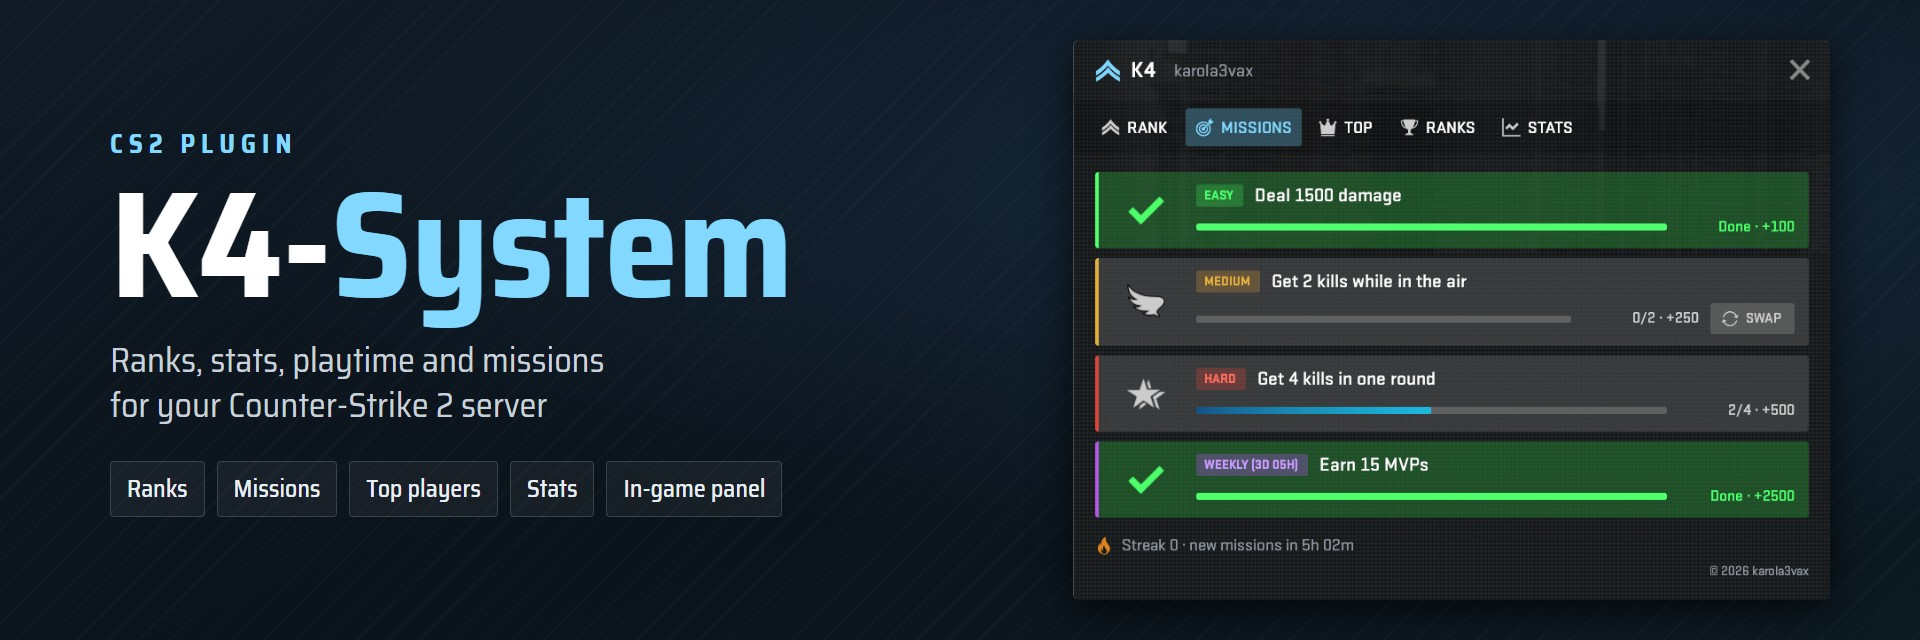
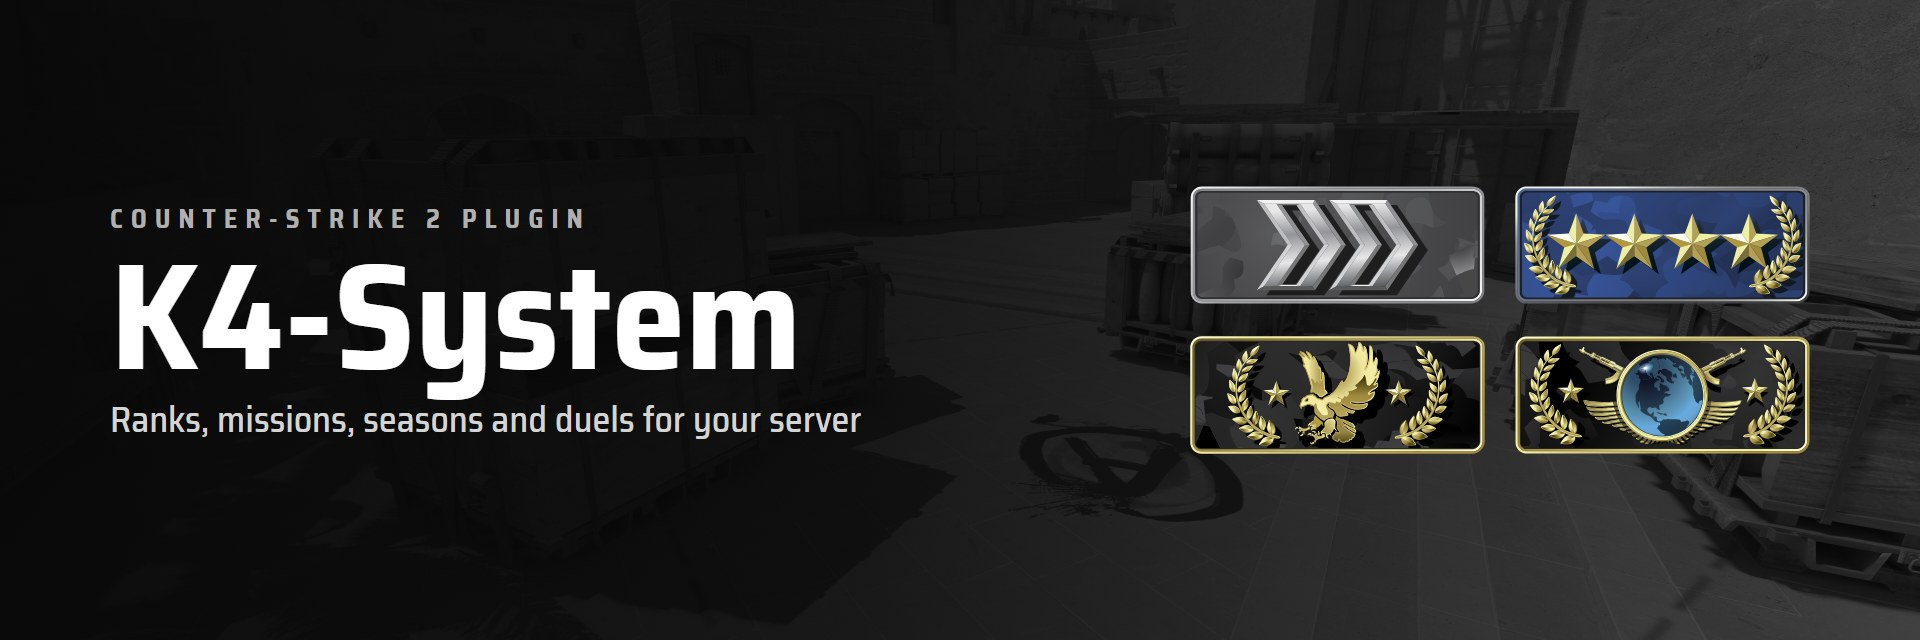
README: rewrite as a short page for server owners
- Black and grey banner and badges, matching the panel theme.
- New panel images replace the screenshots of the pre-7.1 tabs. They are
  browser previews with sample data, and the page says so.
- Feature detail stays in docs/; the old rank icon table and its external
  images are gone.

diff --git a/README.md b/README.md
@@ -1,10 +1,10 @@
 <p align="center">
-  <img src="docs/images/banner.jpg" alt="K4-System: ranks, stats, playtime and missions for your Counter-Strike 2 server">
+  <img src="docs/images/banner.jpg" alt="K4-System: ranks, missions, seasons and duels for your Counter-Strike 2 server">
 </p>
 
 <p align="center">
-  <a href="https://github.com/karola3vax/K4-System/releases/latest"><img src="https://img.shields.io/github/v/release/karola3vax/K4-System?style=for-the-badge&color=1f75cb" alt="Latest release"></a>
-  <a href="LICENSE.md"><img src="https://img.shields.io/badge/license-GPL--3.0-1f75cb?style=for-the-badge" alt="GPL-3.0 license"></a>
+  <a href="https://github.com/karola3vax/K4-System/releases/latest"><img src="https://img.shields.io/github/v/release/karola3vax/K4-System?style=for-the-badge&color=333333" alt="Latest release"></a>
+  <a href="LICENSE.md"><img src="https://img.shields.io/badge/license-GPL--3.0-333333?style=for-the-badge" alt="GPL-3.0 license"></a>
 </p>
 
 <p align="center">
@@ -17,56 +17,43 @@
   <a href="https://discord.com/invite/gaAUsKAuqQ"><strong>Discord</strong></a>
 </p>
 
-K4-System gives your Counter-Strike 2 server a rank ladder that players climb with points. Kills, objectives and round wins earn points, players see their rank on the scoreboard, and daily and weekly missions give them something new to play for every day. It runs on [CounterStrikeSharp](https://github.com/roflmuffin/CounterStrikeSharp) and works with SQLite out of the box or MySQL for several servers.
+K4-System adds a rank ladder to your Counter-Strike 2 server. Players earn points for kills, objectives and round wins, see their rank on the scoreboard, and get new missions every day. It runs on [CounterStrikeSharp](https://github.com/roflmuffin/CounterStrikeSharp) and uses SQLite with no setup, or MySQL for several servers.
 
-<table align="center">
-  <tr>
-    <td align="center"><img src="https://raw.githubusercontent.com/ItzArty/csgo-rank-icons/29cde4ddd2758458f1c67653ad32e0198b5484f9/matchmaking/1.svg" width="72" alt="Silver I"></td>
-    <td align="center"><img src="https://raw.githubusercontent.com/ItzArty/csgo-rank-icons/29cde4ddd2758458f1c67653ad32e0198b5484f9/matchmaking/4.svg" width="72" alt="Silver IV"></td>
-    <td align="center"><img src="https://raw.githubusercontent.com/ItzArty/csgo-rank-icons/29cde4ddd2758458f1c67653ad32e0198b5484f9/matchmaking/7.svg" width="72" alt="Gold Nova I"></td>
-    <td align="center"><img src="https://raw.githubusercontent.com/ItzArty/csgo-rank-icons/29cde4ddd2758458f1c67653ad32e0198b5484f9/matchmaking/10.svg" width="72" alt="Gold Nova Master"></td>
-    <td align="center"><img src="https://raw.githubusercontent.com/ItzArty/csgo-rank-icons/29cde4ddd2758458f1c67653ad32e0198b5484f9/matchmaking/13.svg" width="72" alt="Master Guardian Elite"></td>
-    <td align="center"><img src="https://raw.githubusercontent.com/ItzArty/csgo-rank-icons/29cde4ddd2758458f1c67653ad32e0198b5484f9/matchmaking/16.svg" width="72" alt="Legendary Eagle Master"></td>
-    <td align="center"><img src="https://raw.githubusercontent.com/ItzArty/csgo-rank-icons/29cde4ddd2758458f1c67653ad32e0198b5484f9/matchmaking/18.svg" width="72" alt="Global Elite"></td>
-  </tr>
-</table>
-<p align="center"><sub>The default ladder follows CS2's matchmaking ranks. Every rank, point threshold, tag and reward can be changed.</sub></p>
+<p align="center">
+  <img src="docs/images/panel-home.png" alt="The K4 panel's Home page: rank, points, missions, achievements and the top players">
+</p>
+<p align="center"><sub>The optional in-game panel. Images on this page are browser previews with sample data, not in-game captures.</sub></p>
 
 ## What players get
 
-- **A rank that grows with them.** Points for kills, headshots, objectives and round wins, shown as a CS2 rank icon on the scoreboard.
-- **Missions every day.** Three daily missions and one weekly mission that fit the current map, with a streak bonus for playing several days in a row.
-- **Achievements to chase.** 21 long-term goals, from 100 kills to a 30-day mission streak, each with a one-time reward. Progress counts from a player's first game.
-- **Monthly seasons.** Points start over on the 1st of each month, so new players can reach the top. Final results are kept, and the Top tab shows every past season.
-- **Profiles.** Rank, key stats, favorite weapon, three achievements to show off and past seasons. Click any name in the Top tab to see theirs.
-- **Points events.** Double points on weekend evenings, or whenever an admin starts one.
-- **Bounties and duels.** A long kill streak makes a player WANTED, with bonus points for whoever ends it. Players can challenge each other to a duel for points with `!duel` or on the panel's Duels page: a kill race with a rule (any kill, no-scope, Zeus, knife, Scout or headshot), first to 5 kills or the leader after 10 minutes.
-- **A clickable panel** in CS2's own style for their rank, missions, the top players, duels, all ranks and their stats (optional, through a free Workshop addon).
-- **Their own stats and playtime**, and the server's top list.
-- **Their language.** K4-System speaks 36 languages, and each player can pick their own.
+- **Ranks.** The default ladder follows CS2's matchmaking ranks, and the rank shows as a CS2 icon on the scoreboard.
+- **Missions.** Three daily missions and one weekly mission that fit the current map, with a bonus for a streak of days.
+- **Achievements.** 21 long-term goals with one-time rewards.
+- **Seasons.** Points start over on the 1st of each month. Final results are kept.
+- **Duels.** A kill race for points with a rule: any kill, no-scope, Zeus, knife, Scout or headshot.
+- **Bounties and points events.** A long kill streak puts a bounty on a player, and events give double points on weekend evenings or when an admin starts one.
+- **A clickable panel** for all of this, plus profiles, stats and the leaderboard. It's optional and uses a free Workshop addon.
+- **Their language.** 36 languages, and each player can pick their own.
 
 ## What server owners get
 
-- **Works right away.** Drop it in, start the server, and it runs on SQLite. Switch to MySQL when you run several servers or a web panel.
-- **Everything is adjustable** in one commented config file: point values (with ready presets for casual, competitive and deathmatch), the rank ladder, missions, messages and command names.
-- **Rewards for ranks**, such as a VIP flag or a chat tag, given once when a player reaches a rank.
-- **Fair counting.** Warmup, bots, team kills, AFK players and a minimum player count are handled for you, and anti-farming stops points being fed from a second account or a friend.
-- **Admin tools.** A point history of every manual change (`css_k4_history`), and `css_k4_reload` to apply config changes without a restart.
-- **Fits your server.** Rank-only or permission-only ladders, free-for-all servers, LVL Ranks-style `!lvl` and public `!rank` lines, and a LevelRanks table for older web panels.
+- **A quick start.** Install it, start the server, and it runs on SQLite. Switch to MySQL for several servers or a web panel.
+- **One commented config file** for point values and presets, the rank ladder, missions, messages and command names.
+- **Rank rewards**, such as a VIP flag or a chat tag, given once when a player reaches a rank.
+- **Fair counting.** Warmup, bots, team kills, AFK players and a minimum player count are handled, and anti-farming stops points being fed from a second account or a friend.
+- **Admin tools.** `css_k4_history` shows every manual point change, and `css_k4_reload` applies config changes without a restart.
+- **Other server setups.** Rank-only or permission-only ladders, free-for-all servers, LVL Ranks-style `!lvl` and public `!rank` lines, and a LevelRanks table for older web panels.
 
-## Screenshots
+## The panel
 
 <table>
   <tr>
-    <td width="50%" valign="top"><img src="docs/images/missions.png" alt="The Missions tab: three daily missions and the weekly mission"><br><sub><strong>Missions:</strong> three daily missions and one weekly mission that fit the map</sub></td>
-    <td width="50%" valign="top"><img src="docs/images/top.png" alt="The Top tab: the server's best players"><br><sub><strong>Top:</strong> the server's best players, and your own place</sub></td>
+    <td width="50%" valign="top"><img src="docs/images/panel-missions.png" alt="The Missions page: daily missions, the weekly mission and the streak"><br><sub><strong>Missions:</strong> daily and weekly missions, and the streak</sub></td>
+    <td width="50%" valign="top"><img src="docs/images/panel-duels.png" alt="The Duels page: pick a player, a rule and a stake"><br><sub><strong>Duels:</strong> pick a player, a rule and a stake</sub></td>
   </tr>
   <tr>
-    <td valign="top"><img src="docs/images/rank.png" alt="The Rank tab: rank emblem, points and progress"><br><sub><strong>Rank:</strong> your rank, points, place and progress to the next rank</sub></td>
-    <td valign="top"><img src="docs/images/stats.png" alt="The Stats tab: kills, deaths, headshots, playtime and more"><br><sub><strong>Stats:</strong> kills, K/D, headshots, MVPs, accuracy and playtime</sub></td>
-  </tr>
-  <tr>
-    <td colspan="2" align="center"><img src="docs/images/ranks.png" width="50%" alt="The Ranks tab: every rank with its points and how many players have it"><br><sub><strong>Ranks:</strong> every rank, the points it needs, and how many players have it</sub></td>
+    <td valign="top"><img src="docs/images/panel-achievements.png" alt="The Achievements page: medals with progress bars"><br><sub><strong>Achievements:</strong> medals, progress and what's on your profile</sub></td>
+    <td valign="top"><img src="docs/images/panel-leaderboard.png" alt="The Leaderboard page: the podium and the player list"><br><sub><strong>Leaderboard:</strong> the top players, your place and past seasons</sub></td>
   </tr>
 </table>
 
@@ -80,7 +67,7 @@ You need a Counter-Strike 2 dedicated server with [CounterStrikeSharp](https://g
 4. Open `addons/counterstrikesharp/configs/plugins/K4-System/k4-system.jsonc` and adjust what you like. Every setting has a comment.
 5. Restart the server.
 
-Players type `!k4` to see everything they can do. For the clickable panel, add the Workshop addon as described in the [panel guide](panorama/README.md).
+Players type `!k4` to see what they can do. For the clickable panel, add Workshop addon `3811667212` with [MultiAddonManager](https://github.com/Source2ZE/MultiAddonManager), as described in the [panel guide](panorama/README.md#turn-it-on-for-a-server).
 
 ## Documentation
 
@@ -111,4 +98,4 @@ K4-System was created by [K4ryuu](https://github.com/K4ryuu) and KitsuneLab, wit
 
 Distributed under the [GPL-3.0 license](LICENSE.md).
 
-The rank icons on this page come from [ItzArty/csgo-rank-icons](https://github.com/ItzArty/csgo-rank-icons/tree/29cde4ddd2758458f1c67653ad32e0198b5484f9). The Workshop addon carries sharp copies of CS2's own rank emblems. Counter-Strike and its assets, including these emblems, belong to Valve and are not covered by the GPL.
+The Workshop addon and the images on this page use CS2's own rank emblems and icons. Counter-Strike and its assets belong to Valve and are not covered by the GPL.
